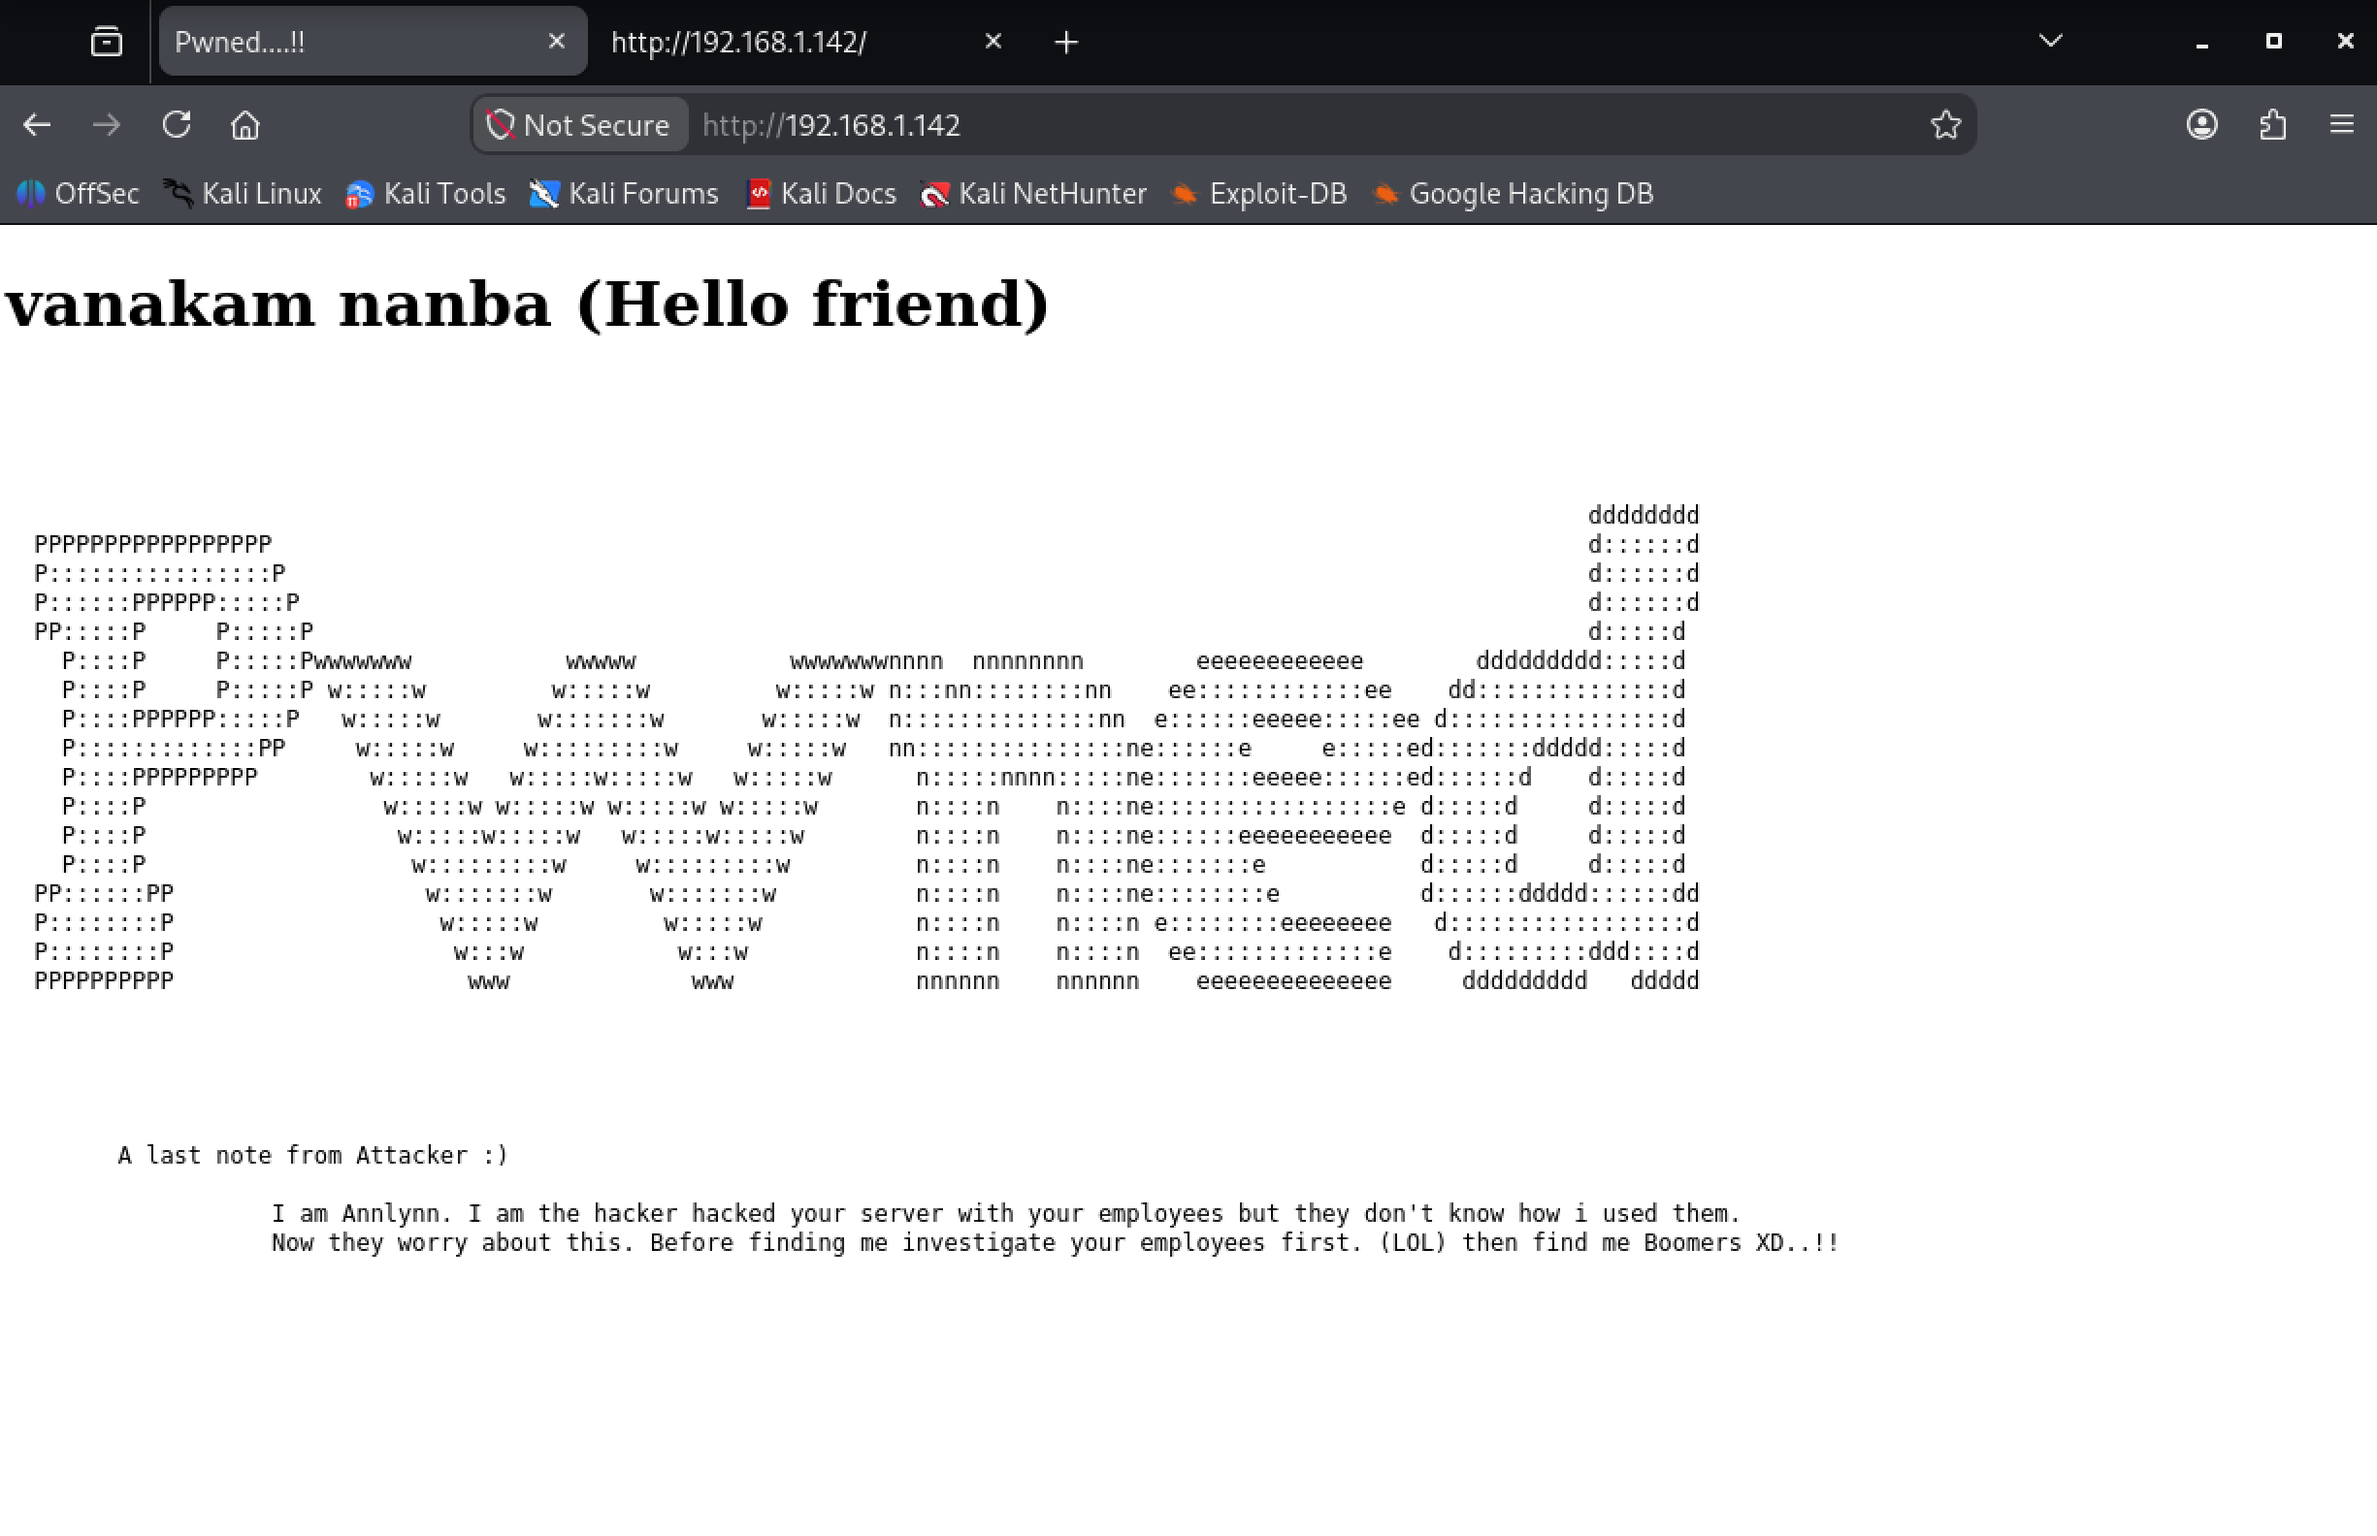
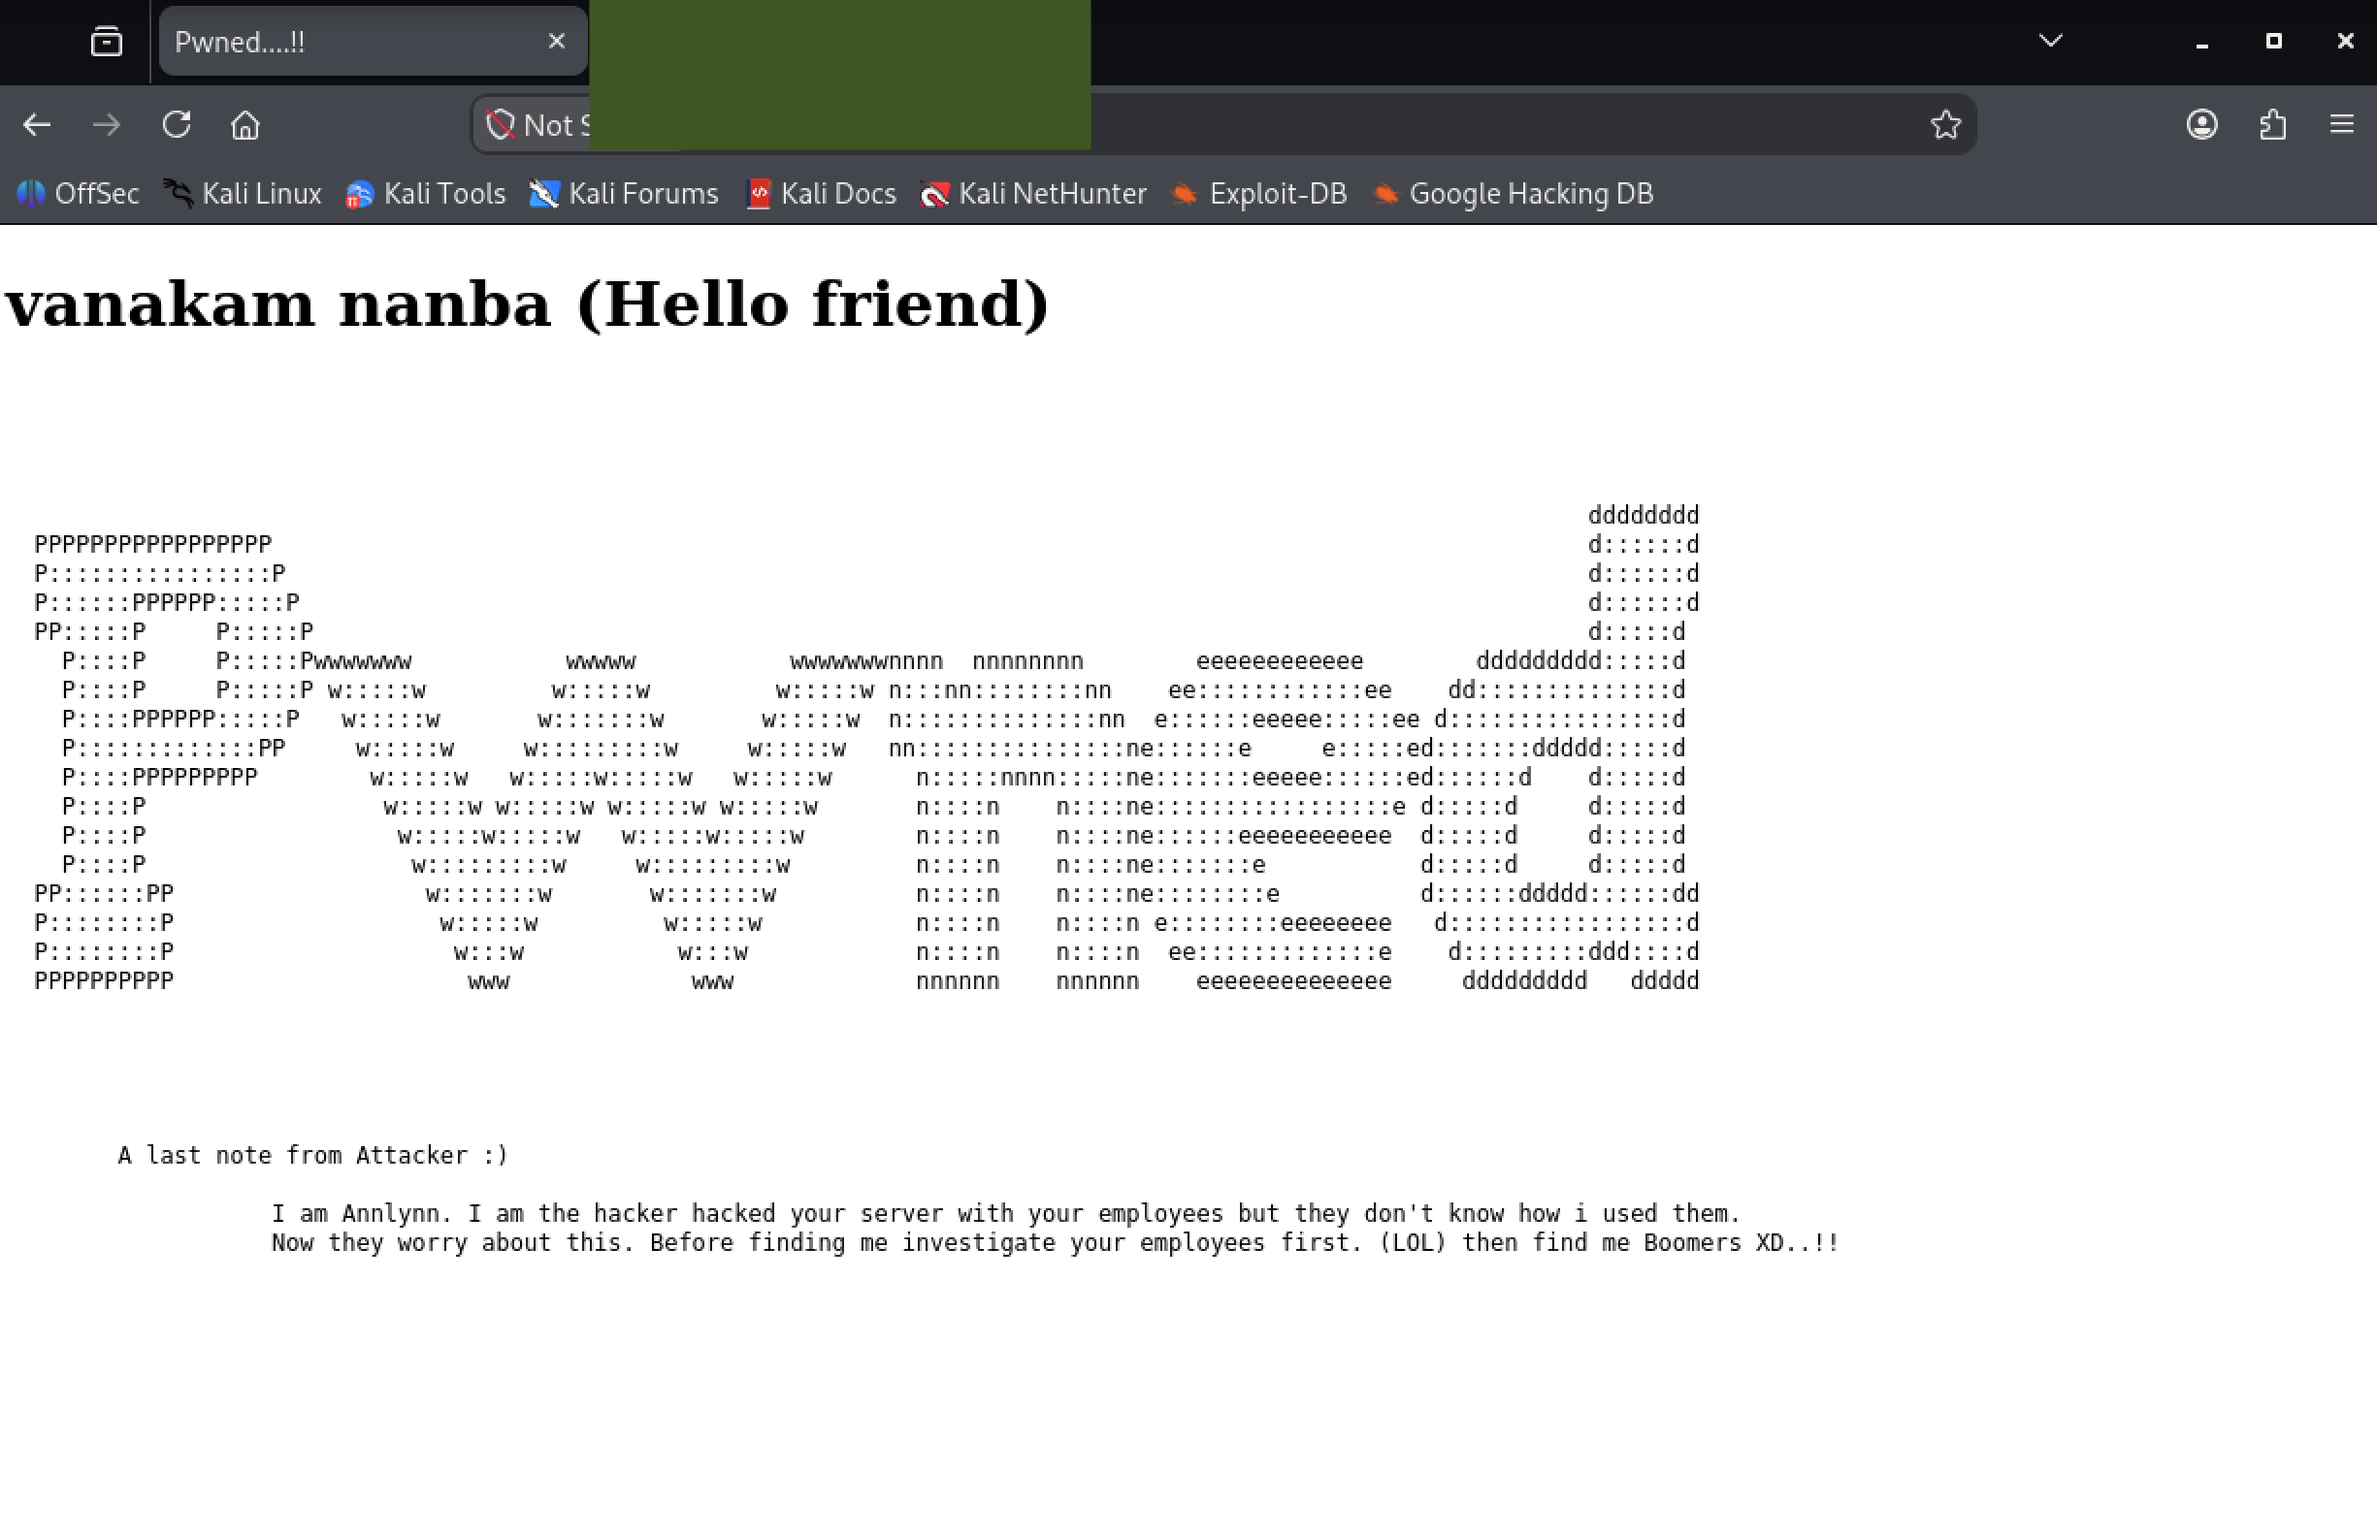
update Pwned

Changed region(s): [[0.2482, 0.0, 0.4653, 0.1237]]

diff --git a/HackMyVM/Pwned/mitigations.md b/HackMyVM/Pwned/mitigations.md
@@ -11,7 +11,7 @@ The main weakness that allowed the attack was the availability of sensitive info
 // $un=$_POST['username']; 
 // $pw=$_POST['password']; 
 // 
-// if ($un=='ftpuser' && $pw=='B0ss_B!TcH') { 
+// if ($un=='ft*****' && $pw=='B0s*******') { 
 // echo "welcome" 
 // exit(); 
 // } 
@@ -59,4 +59,4 @@ Before the fix:
 
 After fixing the script:
 
-![[Captura de pantalla 2026-11-08 a las 21.23.30.png]]
+![](./assets/Pwned_13.png)
